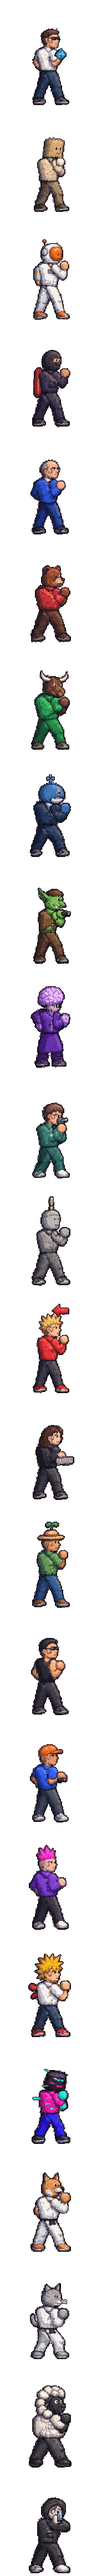
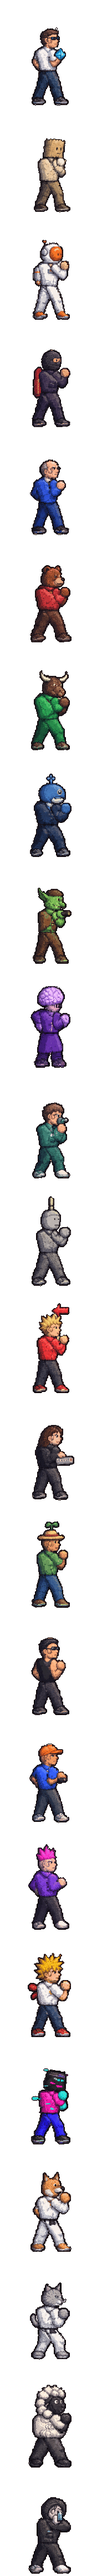
Add files via upload

diff --git a/js/art.js b/js/art.js
@@ -1,5 +1,5 @@
-/* DEGEN DOJO: baked pixel-art fighter sheets (generated). Rows follow DD.Sprites.ANIM_LIST; 2 px per sprite unit. */
-DD.SPRITE_ART_COMMON={cell:[184,192],anchor:[88,180],unit:2,anims:{"idle": {"row": 0, "n": 8}, "walk": {"row": 1, "n": 8}, "jab": {"row": 2, "n": 7}, "punch": {"row": 3, "n": 7}, "upper": {"row": 4, "n": 7}, "heavy": {"row": 5, "n": 7}, "kick": {"row": 6, "n": 7}, "round": {"row": 7, "n": 7}, "lunge": {"row": 8, "n": 7}, "cpunch": {"row": 9, "n": 7}, "ckick": {"row": 10, "n": 7}, "jpunch": {"row": 11, "n": 7}, "jkick": {"row": 12, "n": 7}, "dive": {"row": 13, "n": 7}, "throw": {"row": 14, "n": 7}, "special": {"row": 15, "n": 7}, "crouch": {"row": 16, "n": 1}, "jump": {"row": 17, "n": 3}, "block": {"row": 18, "n": 1}, "cblock": {"row": 19, "n": 1}, "hit": {"row": 20, "n": 2}, "fall": {"row": 21, "n": 2}, "kd": {"row": 22, "n": 2}, "getup": {"row": 23, "n": 3}, "dash": {"row": 24, "n": 2}, "charge": {"row": 25, "n": 4}, "dizzy": {"row": 26, "n": 8}, "win": {"row": 27, "n": 8}, "ball": {"row": 28, "n": 4}, "grab": {"row": 14, "n": 1}, "intro": {"row": 27, "n": 8}}};
+/* DEGEN DOJO: baked pixel-art fighter sheets (generated). Rows follow DD.Sprites.ANIM_LIST; 2 px per sprite unit, drawn at ZOOM. */
+DD.SPRITE_ART_COMMON={cell:[184,192],anchor:[88,180],unit:2,zoom:1.25,anims:{"idle": {"row": 0, "n": 8}, "walk": {"row": 1, "n": 8}, "jab": {"row": 2, "n": 7}, "punch": {"row": 3, "n": 7}, "upper": {"row": 4, "n": 7}, "heavy": {"row": 5, "n": 7}, "kick": {"row": 6, "n": 7}, "round": {"row": 7, "n": 7}, "lunge": {"row": 8, "n": 7}, "cpunch": {"row": 9, "n": 7}, "ckick": {"row": 10, "n": 7}, "jpunch": {"row": 11, "n": 7}, "jkick": {"row": 12, "n": 7}, "dive": {"row": 13, "n": 7}, "throw": {"row": 14, "n": 7}, "special": {"row": 15, "n": 7}, "crouch": {"row": 16, "n": 1}, "jump": {"row": 17, "n": 3}, "block": {"row": 18, "n": 1}, "cblock": {"row": 19, "n": 1}, "hit": {"row": 20, "n": 2}, "fall": {"row": 21, "n": 2}, "kd": {"row": 22, "n": 2}, "getup": {"row": 23, "n": 3}, "dash": {"row": 24, "n": 2}, "charge": {"row": 25, "n": 4}, "dizzy": {"row": 26, "n": 8}, "win": {"row": 27, "n": 8}, "ball": {"row": 28, "n": 4}, "grab": {"row": 14, "n": 1}, "intro": {"row": 27, "n": 8}}};
 DD.SPRITE_IDLE={src:'img/fighters/_idle.png',order:["diamond", "paper", "moon", "rug", "linegoup", "bear", "bull", "whale", "gas", "brain", "copium", "npc", "clickbait", "keyboard", "grass", "sigma", "skill", "ratio", "main", "lag", "shiba", "cat", "unit", "doom"]};
 DD.SPRITE_ART={};
 DD.SPRITE_ART['diamond']=Object.assign({src:'img/fighters/diamond.png'},DD.SPRITE_ART_COMMON);

diff --git a/js/sprites.js b/js/sprites.js
@@ -652,7 +652,7 @@ function idleAtlas(){ const d=DD.SPRITE_IDLE; if(!d) return null;
   if(!IDLE){ IDLE={img:new Image(),ok:false}; IDLE.img.onload=()=>{ IDLE.ok=true; artNotify(null); }; IDLE.img.src=d.src; }
   return IDLE.ok?IDLE:null; }
 function cut(img,sx,sy,d,alt){
-  const [cw,ch]=d.cell, scale=d.unit?RES/d.unit:(56*RES)/(d.height||ch);
+  const [cw,ch]=d.cell, scale=(d.unit?RES/d.unit:(56*RES)/(d.height||ch))*(d.zoom||1);
   const cv=document.createElement('canvas'); cv.width=Math.round(cw*scale); cv.height=Math.round(ch*scale);
   const c=cv.getContext('2d'); c.imageSmoothingEnabled=!!d.smooth; c.drawImage(img,sx,sy,cw,ch,0,0,cv.width,cv.height);
   if(alt){ try{ const o=finish(cv,true,0,0,true); c.clearRect(0,0,cv.width,cv.height); c.drawImage(o,0,0); }catch(e){ c.filter='hue-rotate(150deg)'; c.globalCompositeOperation='copy'; c.drawImage(cv,0,0); c.filter='none'; c.globalCompositeOperation='source-over'; } }
